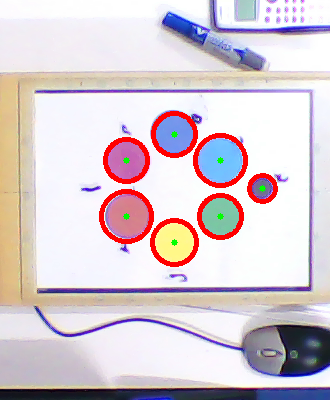
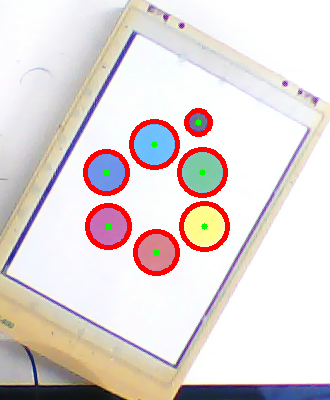
funcionooou :3

diff --git a/unidade2/refatoracao/exp1.c b/unidade2/refatoracao/exp1.c
@@ -107,7 +107,10 @@ void posaParaFoto(void);
 void pega_piloto(void);
 void desenha(int *bolas, int n);
 void magica(void);
+void pega_piloto_custom(int alvo[7][3]);
+void desenha_targets(int alvo[][3], int *bolas, int n_bolas);
 void read_coords(void);
+void read_bolas(int *bolas, int *n_bolas);
 double pixelX2cmY(double x);
 double pixelY2cmX(double x);
 
@@ -284,6 +287,7 @@ int main()
                 //bolas[i] = i+1;
                 desenha(bolas, n);
             } else if (c == 'o') {
+                c = '0';
                 magica();
             } else if (c == '0') {
                 // repouso();
@@ -377,7 +381,7 @@ void calc_direta(void) {
 
 void calc_tetas(double x, double y, double z, double phi) {
     int i;
-    printf("\nVou calcular tetas para posicao - x:%.2lf y:%.2lf z:%.2lf phi%.2lf\n", x, y, z, phi);
+    // printf("\nVou calcular tetas para posicao - x:%.2lf y:%.2lf z:%.2lf phi%.2lf\n", x, y, z, phi);
     phi *= PI / 180;
     double exy = sqrt(pow(x, 2) + pow(y, 2));
     teta[0] = atan2(y / exy, x / exy);
@@ -392,7 +396,7 @@ void calc_tetas(double x, double y, double z, double phi) {
     double beta = atan2(sin(teta[2]) * L3 / exz14, (L2 + L3 * c3) / exz14);
     teta[1] = alpha - beta;
     teta[3] = phi - teta[1] - teta[2];
-    printf("\nexy:%.2lf x14:%.2lf s3sqrt:%.2lf exz14:%.2lf\n", exy, x14, 1 - pow(c3, 2), exz14);
+    // printf("\nexy:%.2lf x14:%.2lf s3sqrt:%.2lf exz14:%.2lf\n", exy, x14, 1 - pow(c3, 2), exz14);
     for (i = 0; i < 4; i++) {
         rad2deg(&teta[i]);
         // printf("%d) %.2lf\n", i+1, teta[i]);
@@ -482,8 +486,10 @@ void calc_senses() {
 }
 
 void move(double x, double y, double z, double phi) {
-    printf("\nMOVE - x:%.2lf y:%.2lf z:%.2lf phi%.2lf\n", x, y, z, phi);
-
+    // printf("\nMOVE - x:%.2lf y:%.2lf z:%.2lf phi%.2lf\n", x, y, z, phi);
+    X = x;
+    Y = y;
+    Z = z;
     calc_tetas(x, y, z, phi);
     // int i;
     // for (i = 0; i < 4; i++){
@@ -500,11 +506,22 @@ void move(double x, double y, double z, double phi) {
 }
 
 void move_step_by_step(double x, double y, double z, double phi) {
+    printf("\nORIGEN TO-> - X:%.2lf Y:%.2lf Z:%.2lf phi%.2lf\n", X, Y, Z, phi);
+    printf("\nMOVE-STEP-BY-STEP TO-> - x:%.2lf y:%.2lf z:%.2lf phi%.2lf\n", x, y, z, phi);
     int i;
 
     // interpola o movimento
+    //z += (0.031400685275072*pow(y,2) + 1.965132928224196*y + 41.678905898998096) - 13;
+    // z +=  (0.12608*y+16.03803) - 13;
+    if (y < -24){
+        if (y < -32)
+            z += -2;
+        else if (y < -25)
+            z += -1;
+    }
     int diffs[3] = {fabs(x - X), fabs(y - Y), fabs(z - Z)};
     int steps = fmax(1, fmax(diffs[0], fmax(diffs[1], diffs[2])));
+    steps *= 2;
     double stepSize[3] = {(x - X)/steps, (y - Y)/steps, (z - Z)/steps};
     for (i = 0; i < steps; ++i)
     {
@@ -512,7 +529,7 @@ void move_step_by_step(double x, double y, double z, double phi) {
         Y += stepSize[1];
         Z += stepSize[2];
         move(X, Y, Z, phi);
-        usleep(150000);
+        usleep(75000);
     }
 }
 void pega() {
@@ -612,23 +629,84 @@ void magica() {
     if (system("./captura/circleFinder"));
 
     int alvo[7][3];
-    int j = 0, i;
+    int j = 0;
     FILE* file = fopen("pos.txt", "r");
     char line[256];
     while (fgets(line, sizeof(line), file)) {
-        if(sscanf(line, "%d %d %d", &alvo[j][0], &alvo[j][1], &alvo[j][2]));
-        alvo[j][0] = pixelX2cmY(alvo[j][0]);
+        // if(sscanf(line, "%d %d %c", &alvo[j][0], &alvo[j][1], &letras[j]));
+        if(sscanf(line, "%d %d %c", &alvo[j][0], &alvo[j][1], &alvo[j][2]));
+        alvo[j][0] = -pixelX2cmY(alvo[j][0]);
         alvo[j][1] = pixelY2cmX(alvo[j][1]);
-        move_step_by_step(alvo[j][1], -alvo[j][0], 13, 0);
-        sleep(2);
+        // move_step_by_step(alvo[j][1], -alvo[j][0], 13, 0);
+        // sleep(3);
         j++;
     }
-    for (i = 0; i < j; ++i)
+    for (j = 0; j < 7; ++j)
+    {
+        printf("%d) %d %d %c\n", j, alvo[j][0], alvo[j][1], alvo[j][2]);
+        // printf("%d) %d %d %c\n", j, alvo[j][0], alvo[j][1], letras[j]);
+    }
+    int *bolas, n_bolas, i;
+
+    printf("\nDigite quantas bolinhas:\n");
+    //if (scanf("%d", &n_bolas));
+    n_bolas = 7;
+    bolas = ((int*) malloc(n_bolas * sizeof(int)));
+    
+    read_bolas(bolas, &n_bolas);
+
+    desenha_targets(alvo, bolas, n_bolas);
+}
+
+void desenha_targets(int alvo[][3], int *bolas, int n_bolas) {
+    int i, j;
+    pega_piloto_custom(alvo);
+    for (i = 0; i < n_bolas; i++){
+        for (j = 0; j < 7; ++j){
+            if (((char)bolas[i]) == ((char)alvo[j][2])) {
+                move_step_by_step(alvo[j][1], alvo[j][0], 13, 0);
+                sleep(2);
+                break;
+            }
+        }
+    }
+}
+void pega_piloto_custom(int alvo[7][3]) {
+    move(0, -26.8, 20.9, 0);
+
+    int i = 0;
+    for (i = 0; i < 7; ++i)
     {
         printf("%d) %d %d %c\n", i, alvo[i][0], alvo[i][1], (char)alvo[i][2]);
     }
-    //pega_piloto();
-
+        // p r b y c g
+    sleep(3);
+    i = 0;
+    printf("Procurando piloto\n");
+    while(((char)alvo[i][2]) != 't'){
+        // printf("alvo[%d][2] = %c\n", i++, (char)alvo[i][2]);
+        i++;
+        if (i > 6){
+            printf("Piloto nao encontrado\n");
+            exit(0);
+        }
+    }
+    printf("Piloto encontrado em %d\n", i);
+    printf("Preparando para pegar o piloto...\n");
+    move(alvo[i][1], alvo[i][0]+3, 25, 0);
+    printf("Abrindo garra...\n");
+    sleep(3);
+    solta();
+    printf("Descendo...\n");
+    sleep(1);
+    move_step_by_step(alvo[i][1], alvo[i][0], 12.5, 0);
+    printf("Fechando garra...\n");
+    sleep(2);
+    pega();
+    printf("Subindo com o piloto...\n");
+    sleep(1);
+    move_step_by_step(alvo[i][1], alvo[i][0], 25, 0);
+    sleep(2);
 }
 
 void read_coords() {
@@ -644,6 +722,20 @@ void read_coords() {
     if (scanf("%lf", &z));
     printf("phi: ");
     if (scanf("%lf", &phi));
+}
+
+void read_bolas(int *bolas, int *n_bolas) {
+    int i;
+    // printf("\nDigite quantas bolinhas:\n");
+    // if (scanf("%d", n_bolas));
+    // *n_bolas = 6;
+    // bolas = ((int*) malloc(*n_bolas * sizeof(int)));
+    printf("\nDigite a ordem das bolinhas:\n");
+    printf("\n(p)ink\n(r)ed\n(b)lue\n(c)yan\n(g)reen\n(y)ellow\n");
+    char resposta[7] = {'r', 'c', 'y', 'p', 'g', 'b', 'r'};
+    for (i = 0; i < *n_bolas; i++)
+        //if (scanf("%d", &bolas[i]));
+        bolas[i] = resposta[i];
 }
 
 double pixelX2cmY(double x) {
